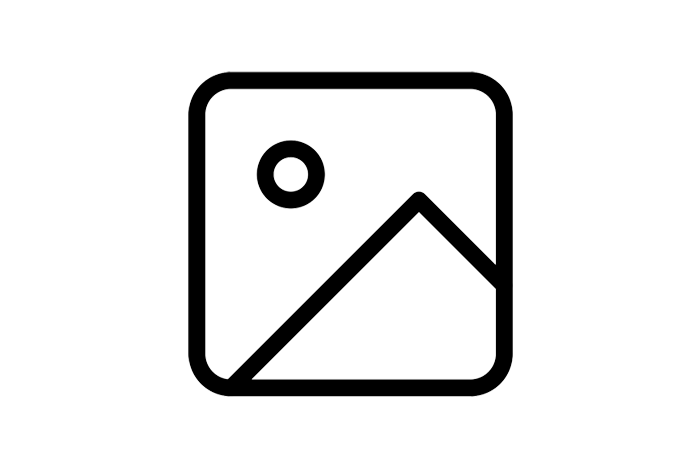
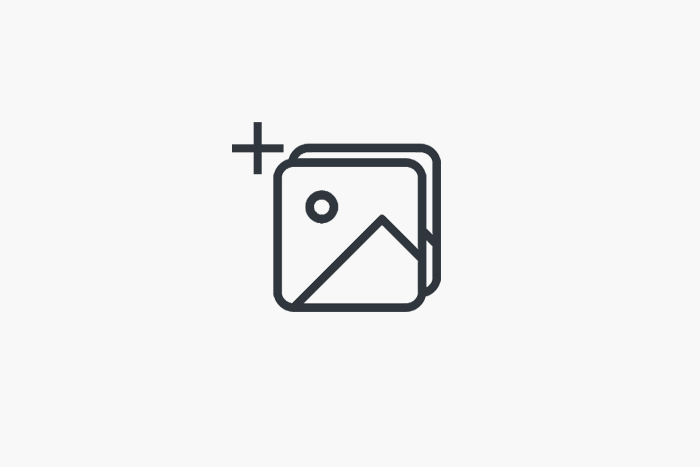
custom placeholder

Changed region(s): [[0.27, 0.1499, 0.75, 0.8694]]

diff --git a/src/components/uploadSpot/ImagePicking.js b/src/components/uploadSpot/ImagePicking.js
@@ -74,9 +74,7 @@ const ImagePicking = props => {
 
     /*
     TODO:
-    // new placeholder
     // check locations are close to each other
-    // only send array elements where set is true
     */
   };
 
@@ -137,6 +135,12 @@ const ImagePicking = props => {
 
 const ImageCon = props => {
   const { data, loading, noOfImages } = props;
+  // require("../../assets/images/imagePlaceholder.png")
+  // { uri: data.url }
+
+  let setUri = data.set
+    ? { uri: data.url }
+    : require("../../assets/images/imagePlaceholder.png");
 
   return (
     <TouchableOpacity style={s.imageCon} onPress={props.pickImage}>
@@ -150,7 +154,7 @@ const ImageCon = props => {
         {loading && (
           <ActivityIndicator style={s.loading} size="large" color="#2f363d" />
         )}
-        {!loading && <Image style={s.img} source={{ uri: data.url }} />}
+        {!loading && <Image style={s.img} source={setUri} />}
       </View>
 
       <View style={s.imgOverlay}>
